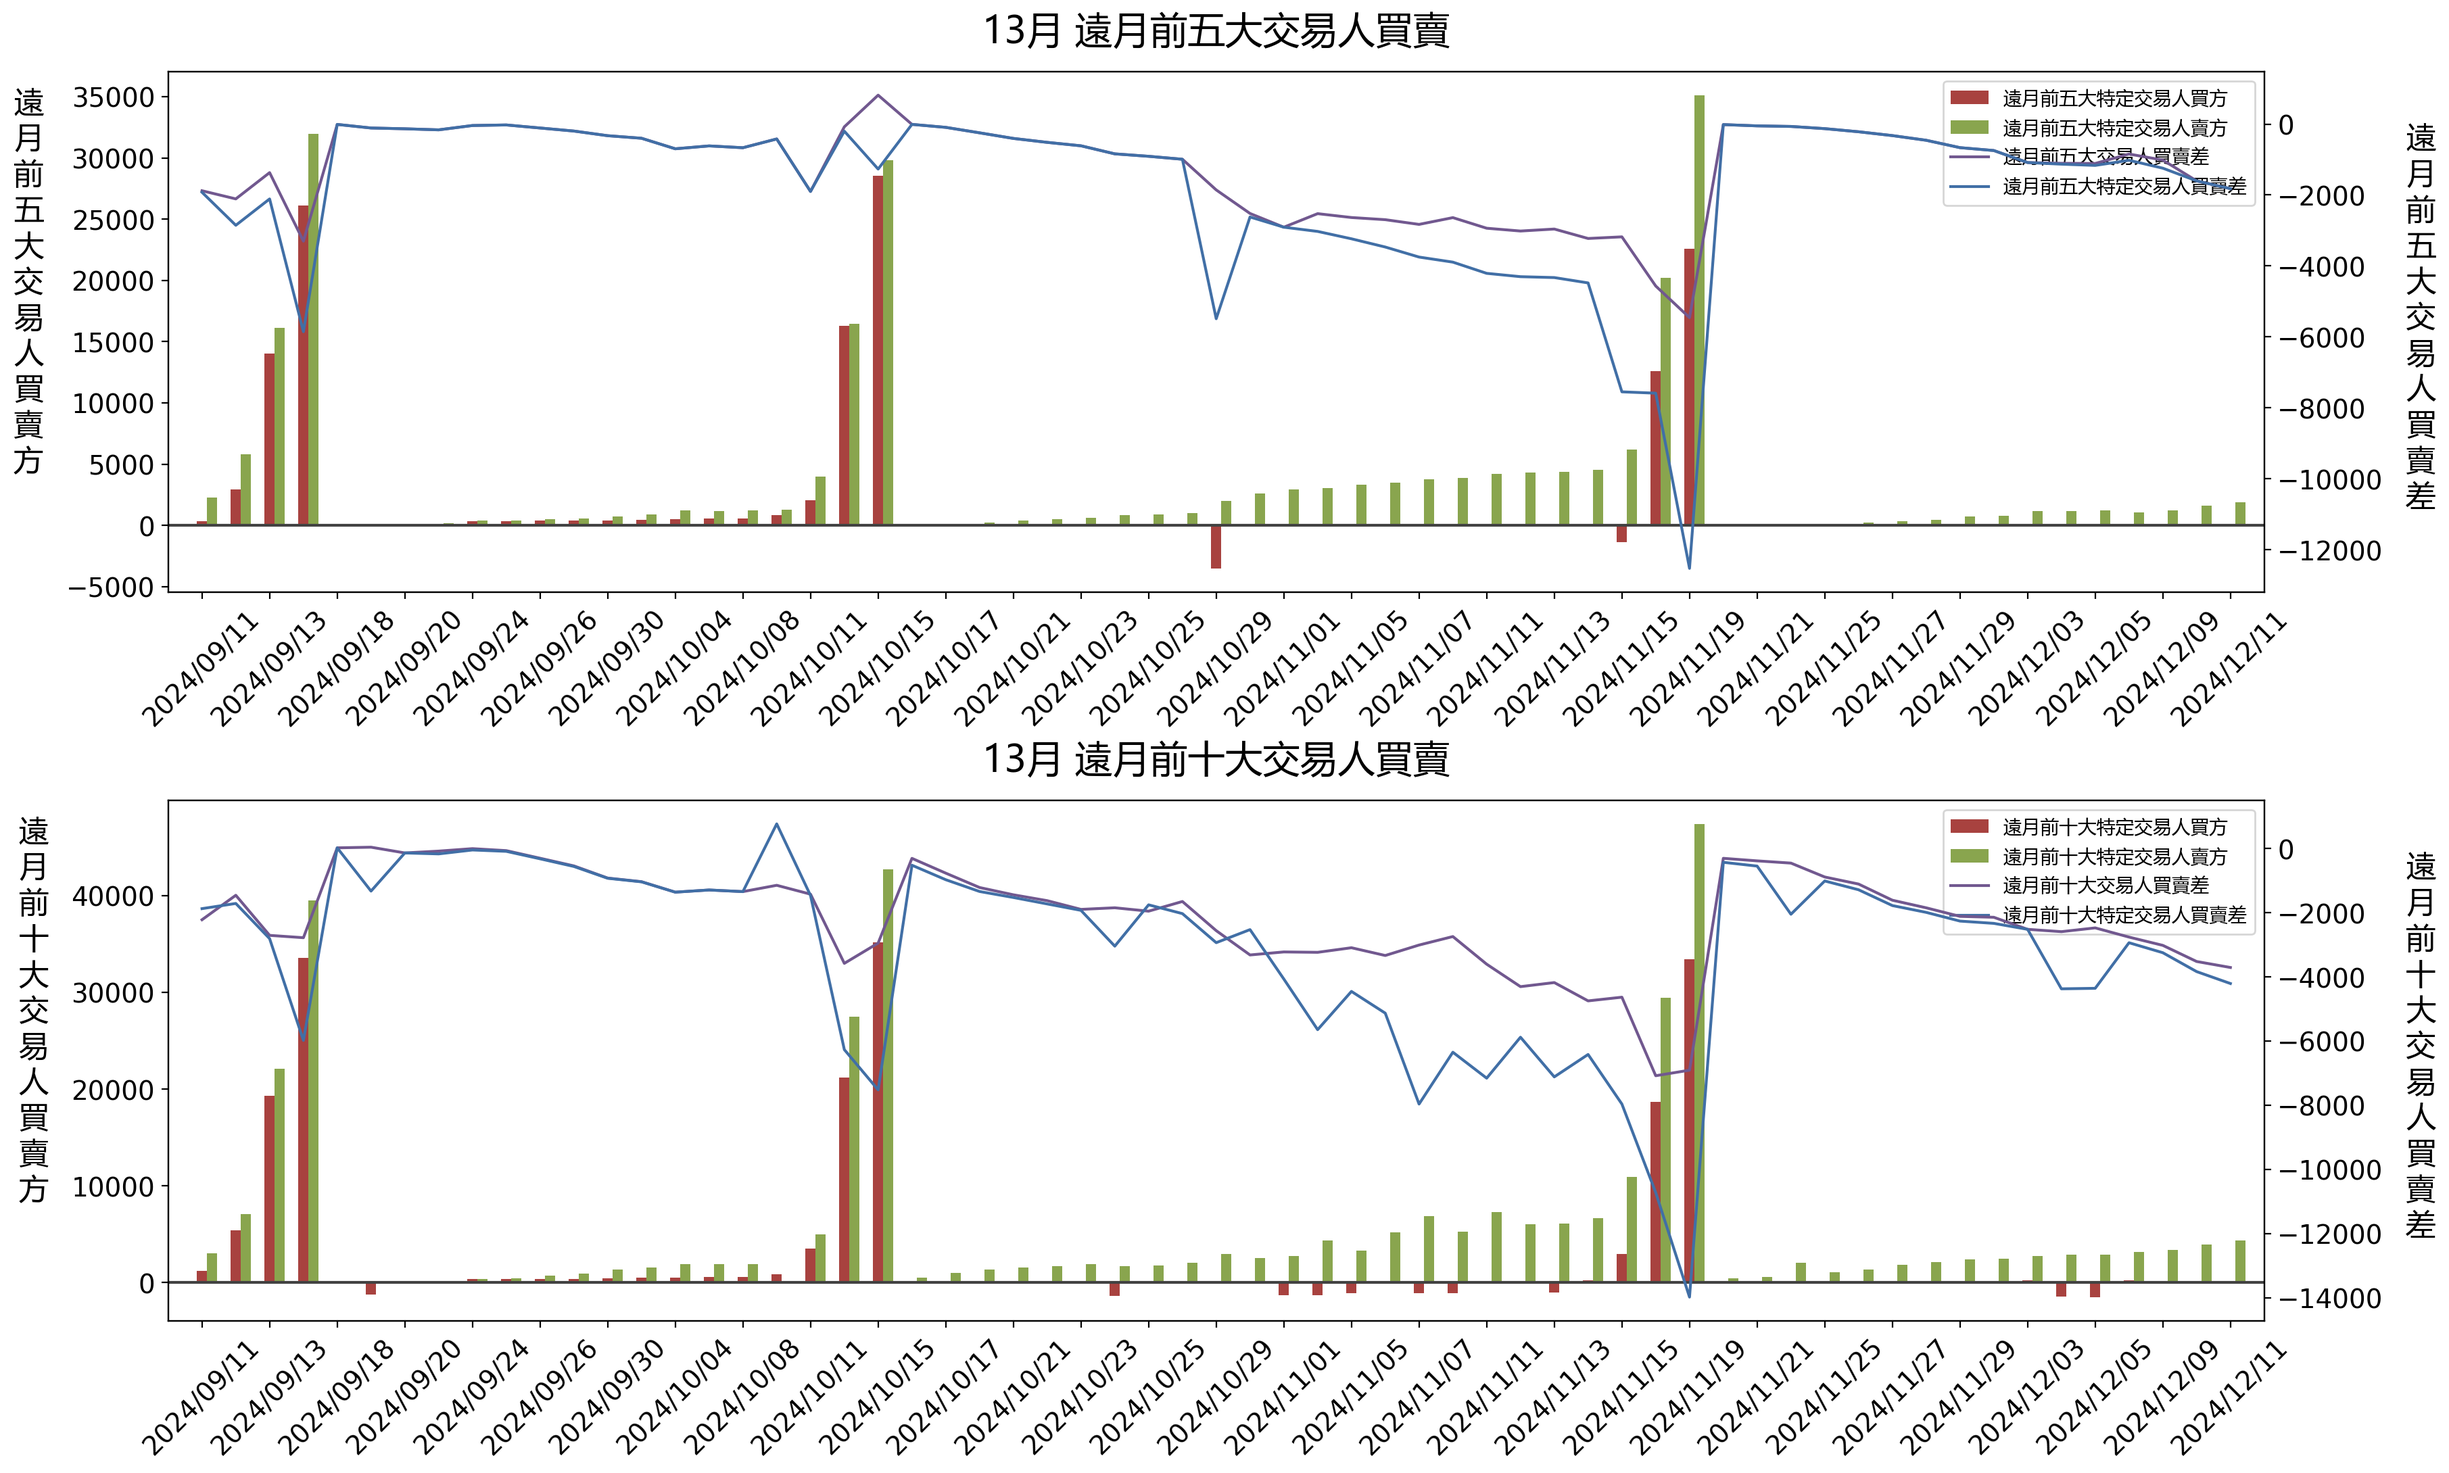
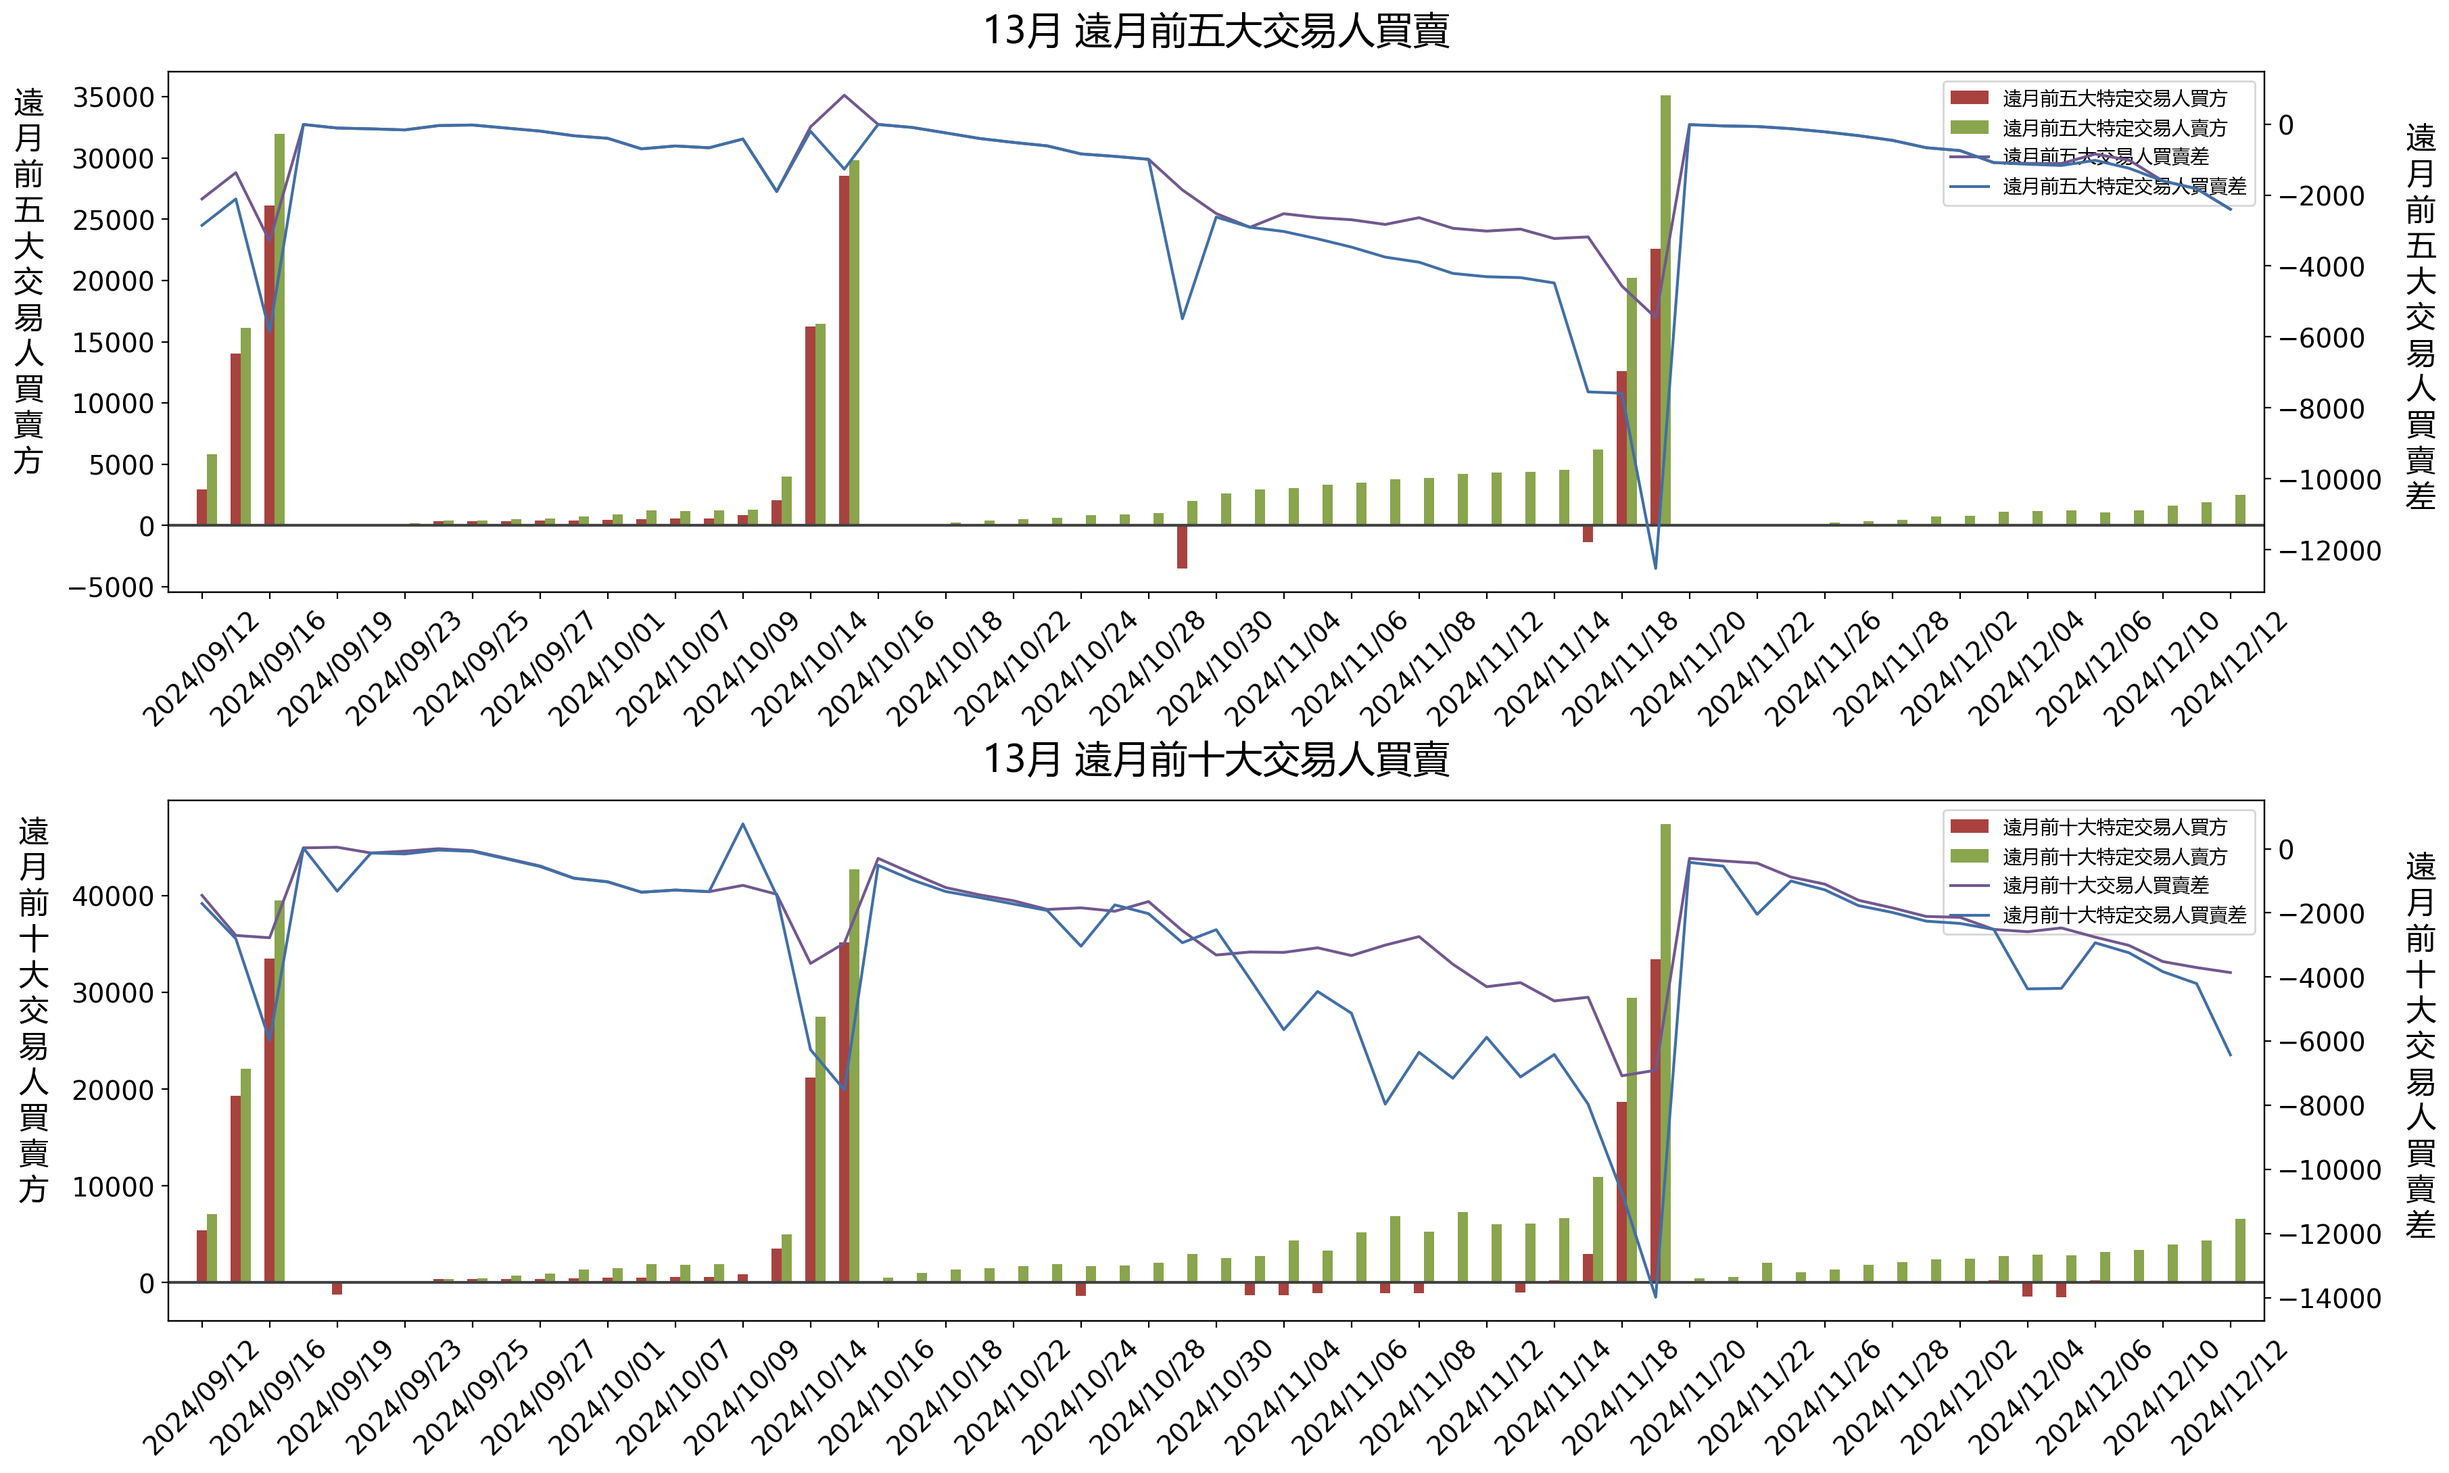
更新時間: Thu Dec 12 16:38:32 CST 2024

diff --git a/README.md b/README.md
@@ -1,12 +1,12 @@
-## 20241211 台指期「預估換倉成本」
+## 20241212 台指期「預估換倉成本」
 ![](images/txfcost.png)
 
-## 20241211 台指期「散戶小台多空比」
+## 20241212 台指期「散戶小台多空比」
 ![](images/bbiri.png)
 
-## 20241211 台指選擇權「Put/Call Ratios」
+## 20241212 台指選擇權「Put/Call Ratios」
 ![](images/pcratio.png)
 
-## 20241211 台指期「大額交易人」
+## 20241212 台指期「大額交易人」
 ![](images/blocktrade.png)
 
